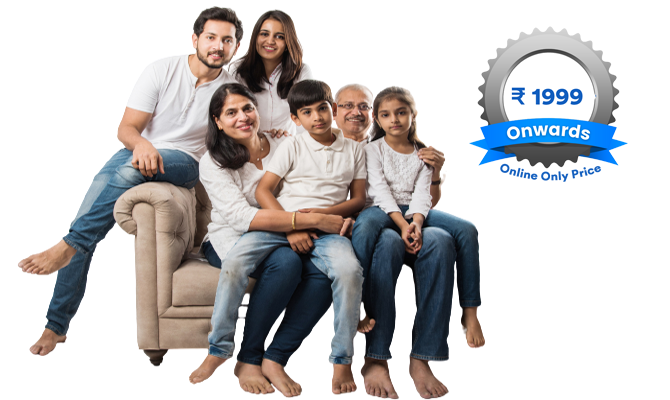
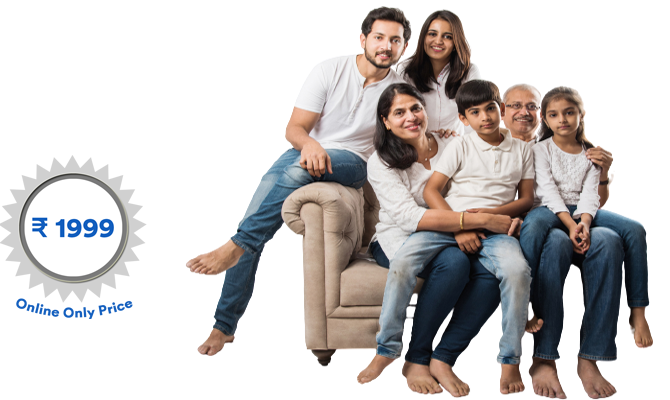
design changes

diff --git a/plans/startassure-fitassure.html b/plans/startassure-fitassure.html
@@ -104,22 +104,19 @@
             <div class="row  px-3 px-md-0">
              <div class="col-12 col-md-6 col-sm-12 col-lg-5 col-xl-5 col-xxl-5 banner">
          <h2 class="pl-2 startassu pb-3"> <span style="color:#0f5fc2;"> Apki Daily Health Ka Insurance </span>  </h2>
-         <p class="thead1 pl-2" style="font-size:18px;margin-bottom:1px;">Secure your family’s out-of-pocket <br> medical expenses with </p>
+         <p class="thead1 pl-2 mb-2" style="font-size:18px;margin-bottom:1px;">Secure your family’s out-of-pocket <br> medical expenses with FitAssure </p>
 
-<h2  class="startassu"> FitAssure </h2>
+<!-- <h2  class="startassu">  </h2> -->
 <div class="row">
     <div class="col-md-8 col-lg-8 col-xl-8 col-xxl-6 col-sm-12">
       <a href="javascript:OpenBuyPlanPopup('FitAssure','HAOPDR003-50','')">  <h5 class="btn2">Buy Plan </h5></a>
       <a href="#benefits"><p class="pl-3 pt-1 text-primary" style="font-size:16px;"><b> Explore Benefits <i class="fa fa-chevron-right" aria-hidden="true"></i> </b> </p></a>
   </div>
-
 </div>
-
- </div>
+</div>
         <div class="col-12 col-md-6 col-sm-12 col-lg-7 col-xl-7 col-xxl-7 pb-4 banner1 mob">
     <img src="images/main-doctor1.png" class="img-fluid">
-
- </div>
+</div>
 </div>
    </div>
     </section>
@@ -180,7 +177,7 @@
     <div class="service-fiassure">
         <div class="row plan">
       <div class="col-md-6 pt-2 col-5">
-                <p style="font-size:22px; padding-left:10px;color:#0f5fc2;"><b> Fitassure </b> </p>
+                <p style="font-size:22px; padding-left:10px;color:#0f5fc2;"><b> FitAssure Plan </b> </p>
            </div>
             <div class="col-md-6 col-7 val">
                 <p style="margin-bottom:0px;"> <small> 12 Months </small> </p>
@@ -201,7 +198,7 @@
     <div class="col-md-6 pl-4 mt-5">
          
           <a href="https://www.healthassure.in/products/Files/StartAssure-Silver-Plus.pdf" class="tnc" target="_blank">*Terms & conditions</a>  
-          <p class="tnc1 pl-2">(Exc. GST) </p>  
+          <p class="tnc1 pl-2">(Excl. GST) </p>  
  </div>
      <div class="col-md-6 pt-4">
          <a href="javascript:OpenBuyPlanPopup('Startassure Silver Plus','HAOPDR003-50','')"     class="buybtn float-end">  <span style="font-size:14px;text-align:left; padding-right:16px;"> Buy Now </span><br/>  <span style="font-size:20px; font-weight:500;"> &#8377; <del> 2999 </del> &nbsp;  1999/-</span>  </a> 
